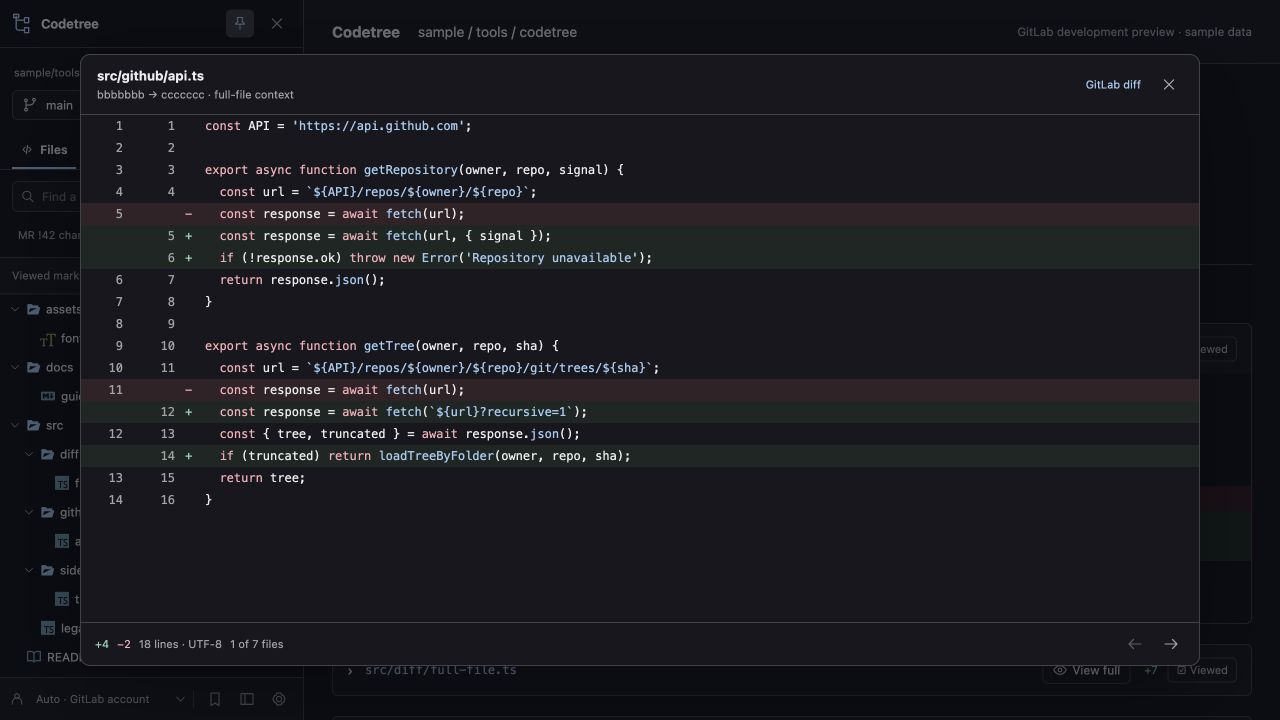
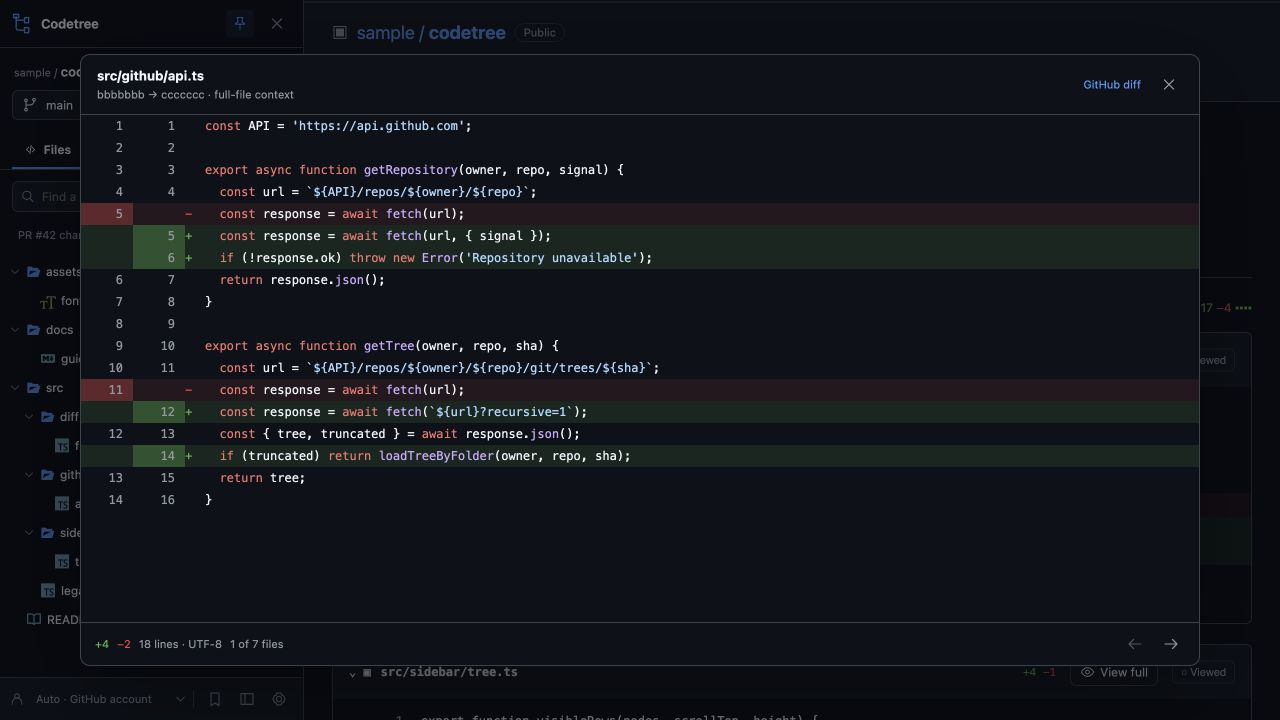
fix: match provider code colors and refresh previews

diff --git a/src/content/sidebar.css b/src/content/sidebar.css
@@ -18,6 +18,19 @@
   --green: var(--fgColor-success, var(--color-success-fg, #1a7f37));
   --red: var(--fgColor-danger, var(--color-danger-fg, #cf222e));
   --purple: var(--fgColor-done, var(--color-done-fg, #8250df));
+  --code-bg: var(--bg);
+  --code-text: var(--text);
+  --diff-add-bg: var(--diffBlob-additionLine-bgColor, #dafbe1);
+  --diff-delete-bg: var(--diffBlob-deletionLine-bgColor, #ffebe9);
+  --diff-add-number-bg: var(--diffBlob-additionNum-bgColor, #aceebb);
+  --diff-delete-number-bg: var(--diffBlob-deletionNum-bgColor, #ffcecb);
+  --syntax-comment: var(--color-prettylights-syntax-comment, #6e7781);
+  --syntax-keyword: var(--color-prettylights-syntax-keyword, #cf222e);
+  --syntax-string: var(--color-prettylights-syntax-string, #0a3069);
+  --syntax-number: var(--color-prettylights-syntax-constant, #0550ae);
+  --syntax-function: var(--color-prettylights-syntax-entity, #8250df);
+  --syntax-property: var(--color-prettylights-syntax-variable, #953800);
+  --syntax-tag: var(--color-prettylights-syntax-entity-tag, #116329);
   --row-height: 29px;
 }
 :host([data-theme='dark']) {
@@ -33,6 +46,17 @@
   --green: var(--fgColor-success, var(--color-success-fg, #3fb950));
   --red: var(--fgColor-danger, var(--color-danger-fg, #f85149));
   --purple: var(--fgColor-done, var(--color-done-fg, #ab7df8));
+  --diff-add-bg: var(--diffBlob-additionLine-bgColor, #2ea04326);
+  --diff-delete-bg: var(--diffBlob-deletionLine-bgColor, #f851491a);
+  --diff-add-number-bg: var(--diffBlob-additionNum-bgColor, #3fb9504d);
+  --diff-delete-number-bg: var(--diffBlob-deletionNum-bgColor, #f851494d);
+  --syntax-comment: var(--color-prettylights-syntax-comment, #9198a1);
+  --syntax-keyword: var(--color-prettylights-syntax-keyword, #ff7b72);
+  --syntax-string: var(--color-prettylights-syntax-string, #a5d6ff);
+  --syntax-number: var(--color-prettylights-syntax-constant, #79c0ff);
+  --syntax-function: var(--color-prettylights-syntax-entity, #d2a8ff);
+  --syntax-property: var(--color-prettylights-syntax-variable, #ffa657);
+  --syntax-tag: var(--color-prettylights-syntax-entity-tag, #7ee787);
 }
 :host([data-provider='gitlab']) {
   --bg: var(--gl-background-color-default, #fff);
@@ -46,6 +70,19 @@
   --green: var(--gl-text-color-success, #0c7265);
   --red: var(--gl-text-color-danger, #c52042);
   --purple: var(--gl-color-purple-600, #6a54c0);
+  --code-bg: var(--native-code-background, #fff);
+  --code-text: var(--native-code-text-color, #3a383d);
+  --diff-add-bg: var(--native-code-new-diff-background-color, #ecfdf0);
+  --diff-delete-bg: var(--native-code-old-diff-background-color, #fbe9eb);
+  --diff-add-number-bg: var(--native-code-new-diff-line-number-background-color, #ddfbe6);
+  --diff-delete-number-bg: var(--native-code-old-diff-line-number-background-color, #f9d7dc);
+  --syntax-comment: #998;
+  --syntax-keyword: var(--code-text);
+  --syntax-string: #d14;
+  --syntax-number: #099;
+  --syntax-function: #900;
+  --syntax-property: #008080;
+  --syntax-tag: #000080;
 }
 :host([data-provider='gitlab'][data-theme='dark']) {
   --bg: var(--gl-background-color-default, #18171d);
@@ -59,6 +96,19 @@
   --green: var(--gl-text-color-success, #84d4b6);
   --red: var(--gl-text-color-danger, #ffafb8);
   --purple: var(--gl-color-purple-300, #a997e1);
+  --code-bg: var(--native-code-background, #1d1f21);
+  --code-text: var(--native-code-text-color, #c5c8c6);
+  --diff-add-bg: var(--native-code-new-diff-background-color, #233726);
+  --diff-delete-bg: var(--native-code-old-diff-background-color, #4b2526);
+  --diff-add-number-bg: var(--native-code-new-diff-line-number-background-color, #233726);
+  --diff-delete-number-bg: var(--native-code-old-diff-line-number-background-color, #4b2526);
+  --syntax-comment: #969896;
+  --syntax-keyword: #b294bb;
+  --syntax-string: #b5bd68;
+  --syntax-number: #de935f;
+  --syntax-function: #81a2be;
+  --syntax-property: #81a2be;
+  --syntax-tag: #8abeb7;
 }
 * {
   box-sizing: border-box;
@@ -144,28 +194,32 @@ button:disabled {
   white-space: nowrap;
 }
 .syntax-comment {
-  color: var(--muted);
+  color: var(--syntax-comment);
   font-style: italic;
 }
 .syntax-keyword,
-.syntax-tag,
 .syntax-heading {
-  color: var(--red);
+  color: var(--syntax-keyword);
+}
+.syntax-tag {
+  color: var(--syntax-tag);
 }
 .syntax-string {
-  color: var(--accent);
+  color: var(--syntax-string);
 }
 .syntax-number,
 .syntax-constant {
-  color: var(--purple);
+  color: var(--syntax-number);
 }
-.syntax-function,
+.syntax-function {
+  color: var(--syntax-function);
+}
 .syntax-property {
-  color: var(--accent);
+  color: var(--syntax-property);
 }
 .syntax-operator,
 .syntax-punctuation {
-  color: var(--text);
+  color: var(--code-text);
 }
 .syntax-heading {
   font-weight: 600;
@@ -895,6 +949,10 @@ button:disabled {
   font-size: 11px;
   margin-right: 9px;
 }
+.viewer[aria-label='Full-file diff'] .viewer-body {
+  background: var(--code-bg);
+  color: var(--code-text);
+}
 .viewer-body {
   flex: 1;
   min-height: 0;
@@ -921,10 +979,10 @@ button:disabled {
   min-width: max-content;
 }
 .code-row.added {
-  background: #2da44e1c;
+  background: var(--diff-add-bg);
 }
 .code-row.removed {
-  background: #ff81821c;
+  background: var(--diff-delete-bg);
 }
 .code-row .line-number {
   display: inline-block;
@@ -934,6 +992,12 @@ button:disabled {
   color: var(--muted);
   padding-right: 10px;
   user-select: none;
+}
+.code-row.added .line-number {
+  background: var(--diff-add-number-bg);
+}
+.code-row.removed .line-number {
+  background: var(--diff-delete-number-bg);
 }
 .code-row .line-sign {
   display: inline-block;

diff --git a/src/content/sidebar/layout.js b/src/content/sidebar/layout.js
@@ -26,6 +26,7 @@ export function createLayout(app) {
     host.dataset.theme = isDark() ? 'dark' : 'light';
     host.dataset.icons = prefs.iconTheme;
     host.dataset.provider = state.context?.provider || 'github';
+    updateCodeColors();
     host.style.setProperty('--panel-width', `${prefs.width}px`);
     host.style.setProperty('--code-font', fontFamilies[prefs.fontFamily]);
     host.style.setProperty('--code-size', `${prefs.fontSize}px`);
@@ -52,6 +53,29 @@ export function createLayout(app) {
       .codetree-view-full{display:inline-flex;align-items:center;gap:5px;flex-shrink:0;white-space:nowrap;cursor:pointer;font:12px -apple-system,BlinkMacSystemFont,"Segoe UI",sans-serif;padding:4px 9px;border:1px solid var(--borderColor-default,var(--gl-border-color-default,#8b949e55));border-radius:6px;background:var(--bgColor-muted,var(--gl-background-color-subtle,#6e768112));color:inherit;margin-inline:4px;line-height:18px}
       .codetree-view-full:hover{border-color:var(--fgColor-accent,var(--gl-text-color-link,#58a6ff))}.codetree-view-full:focus-visible{outline:2px solid var(--fgColor-accent,var(--gl-focus-ring-outer-color,#58a6ff));outline-offset:2px}.codetree-view-full:disabled{opacity:.5;cursor:default}.codetree-view-full .icon{height:15px;width:15px}`;
     app.requestTreeRender();
+  }
+
+  /** Reads GitLab's selected code theme without applying it to the sidebar chrome. */
+  function updateCodeColors() {
+    const source =
+      state.context?.provider === 'gitlab'
+        ? document.querySelector(
+            '.code-syntax-highlight-theme, .diff-file .code, .diff-table.code, .rd-diff-file .code',
+          )
+        : null;
+    const colors = source ? getComputedStyle(source) : null;
+    for (const name of [
+      'background',
+      'text-color',
+      'new-diff-background-color',
+      'old-diff-background-color',
+      'new-diff-line-number-background-color',
+      'old-diff-line-number-background-color',
+    ]) {
+      const value = colors?.getPropertyValue(`--code-${name}`).trim();
+      if (value) host.style.setProperty(`--native-code-${name}`, value);
+      else host.style.removeProperty(`--native-code-${name}`);
+    }
   }
 
   /** Moves the collapsed edge handle beside GitHub's left navigation drawer when it is open. */

diff --git a/docs/VERIFICATION.md b/docs/VERIFICATION.md
@@ -129,6 +129,14 @@ A refreshed npm audit discovered [GHSA-rj75-hqrm-r3gf](https://github.com/adviso
 
 Local full verification passed: ESLint, CSS syntax/seven rule categories, the unchanged 31 regressions, static source/manifest/docs/lockfile checks and the 18-file runtime package. Final Chrome visual acceptance remains pending: the native control tool returned `noWindowsAvailable`, which is not evidence that the Mac is locked. The maintainer requested no further window control, so no further native actions were attempted. Installed source files are updated on disk; the revised candidate still needs extension Reload and a page refresh by the maintainer. No tag, release or store submission was made.
 
+## Provider colors, 2026-10-07
+
+GitHub's current page tokens and GitLab's current UI/code-theme styles were inspected read-only on public pages. Full-file previews now use separate provider syntax palettes, GitHub's diff background/number tokens and GitLab's selected native code background/text/diff values when present. Review-comment dialogs retain the UI background. No external scripts, styles or font assets were added.
+
+The current production bundle rendered full-file previews in local GitHub/GitLab fixtures in both light and dark themes with no captured browser errors. GitLab's dark code background was `#1d1f21`, independently of its UI background `#18171d`; its light code background was white. README now shows GitLab's light UI and GitHub's dark full-file view, both with sample data. This is fixture visual proof, not installed-extension or authenticated API verification. The closed Shadow DOM remains unchanged.
+
+`npm run verify` passed formatting, lint, the unchanged 36 regressions, source/manifest/document checks and runtime ZIP packaging. Tests were not edited.
+
 ## Pending environments
 
 - Installed-browser smoke for the current security/Sync changes and full browser restart.

diff --git a/CHANGELOG.md b/CHANGELOG.md
@@ -29,6 +29,7 @@
 - **CHANGED**: minimum Chrome version to 116 for OAuth authorization-window lifecycle support
 - **CHANGED**: web-accessible styles and fonts use per-session dynamic URLs (Chrome 130+), so websites cannot detect the extension by its ID
 - **CHANGED**: repository pages receive only bookmarks for enabled hosts; synced bookmarks for other hosts stay stored and appear once the host is connected
+- **FIXED**: full-file code colors use provider-specific syntax and diff palettes, GitHub diff tokens and GitLab selected code-theme backgrounds instead of shared red/green overlays
 - **FIXED**: GitLab discussions requiring authentication no longer block a public MR/commit diff; unavailable comments are reported separately
 - **FIXED**: unauthenticated API operations report that an account is required instead of saying a token was rejected
 - **FIXED**: invalid repository/source identifiers with dot segments are rejected before requesting an API endpoint

diff --git a/README.md b/README.md
@@ -8,9 +8,9 @@ Browse files, switch branches, review PR/MR changes and open the whole changed f
 
 ## Preview
 
-![Codetree on a GitLab development fixture](.github/images/gitlab.jpg)
+![Codetree on a GitLab development fixture in the light theme](.github/images/gitlab.jpg)
 
-![Codetree whole-file preview with highlighted changes](.github/images/full-file.jpg)
+![Codetree whole-file preview on a GitHub development fixture in the dark theme](.github/images/full-file.jpg)
 
 These screenshots show Codetree 0.3.0, including the current file-icons theme, on a local development fixture with sample data and the actual extension scripts. They do not show an installed extension on a live repository.
 
